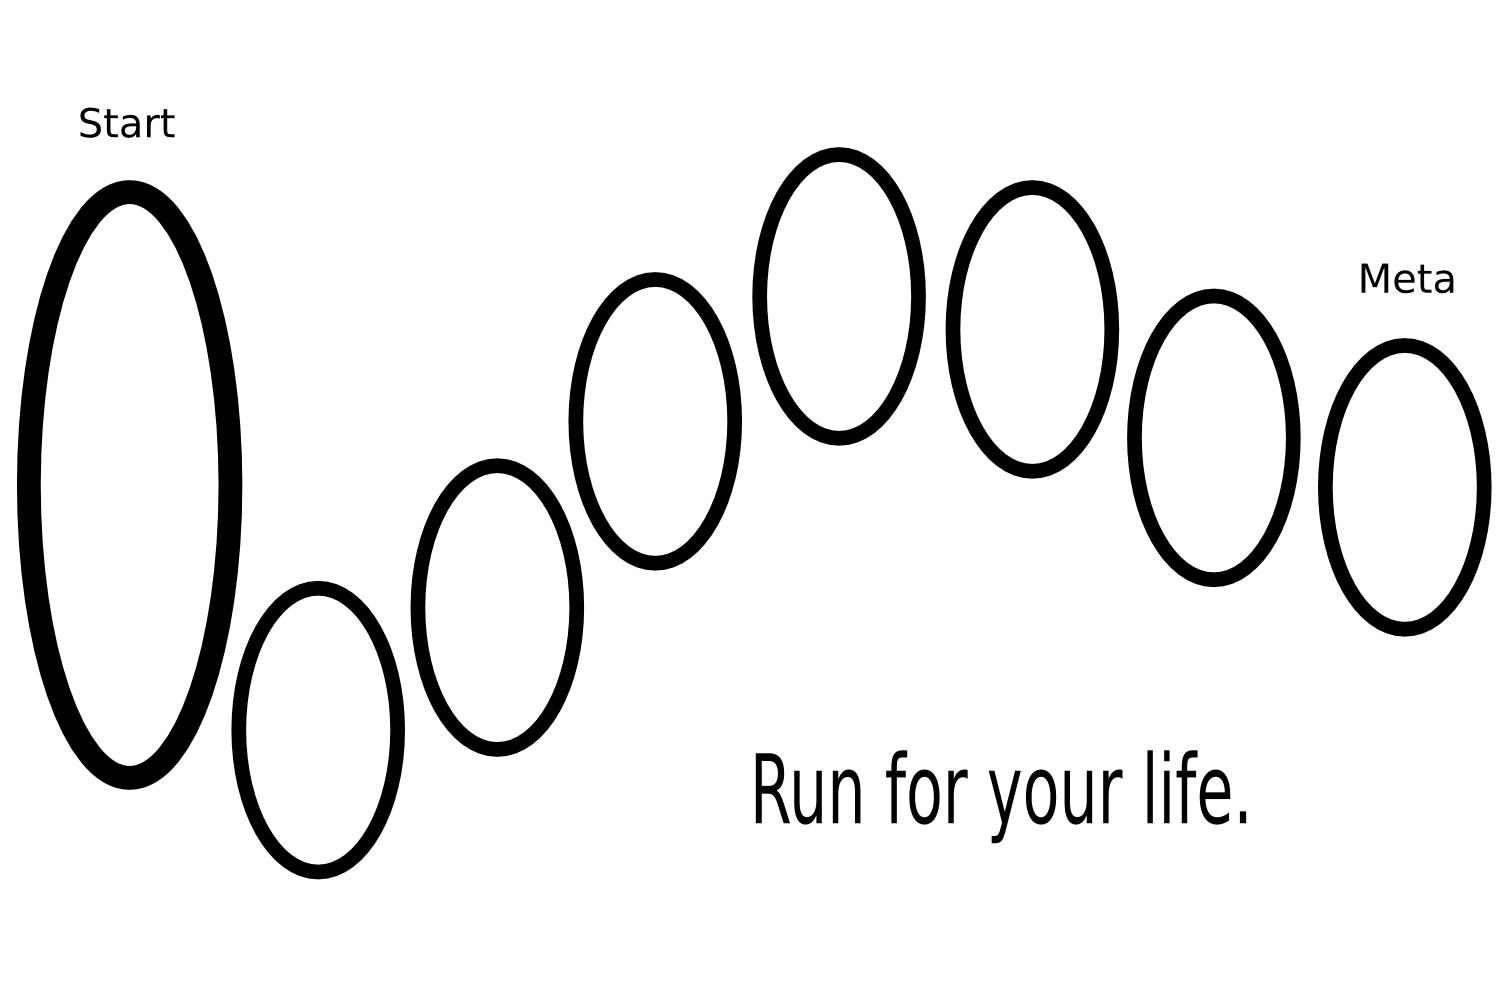
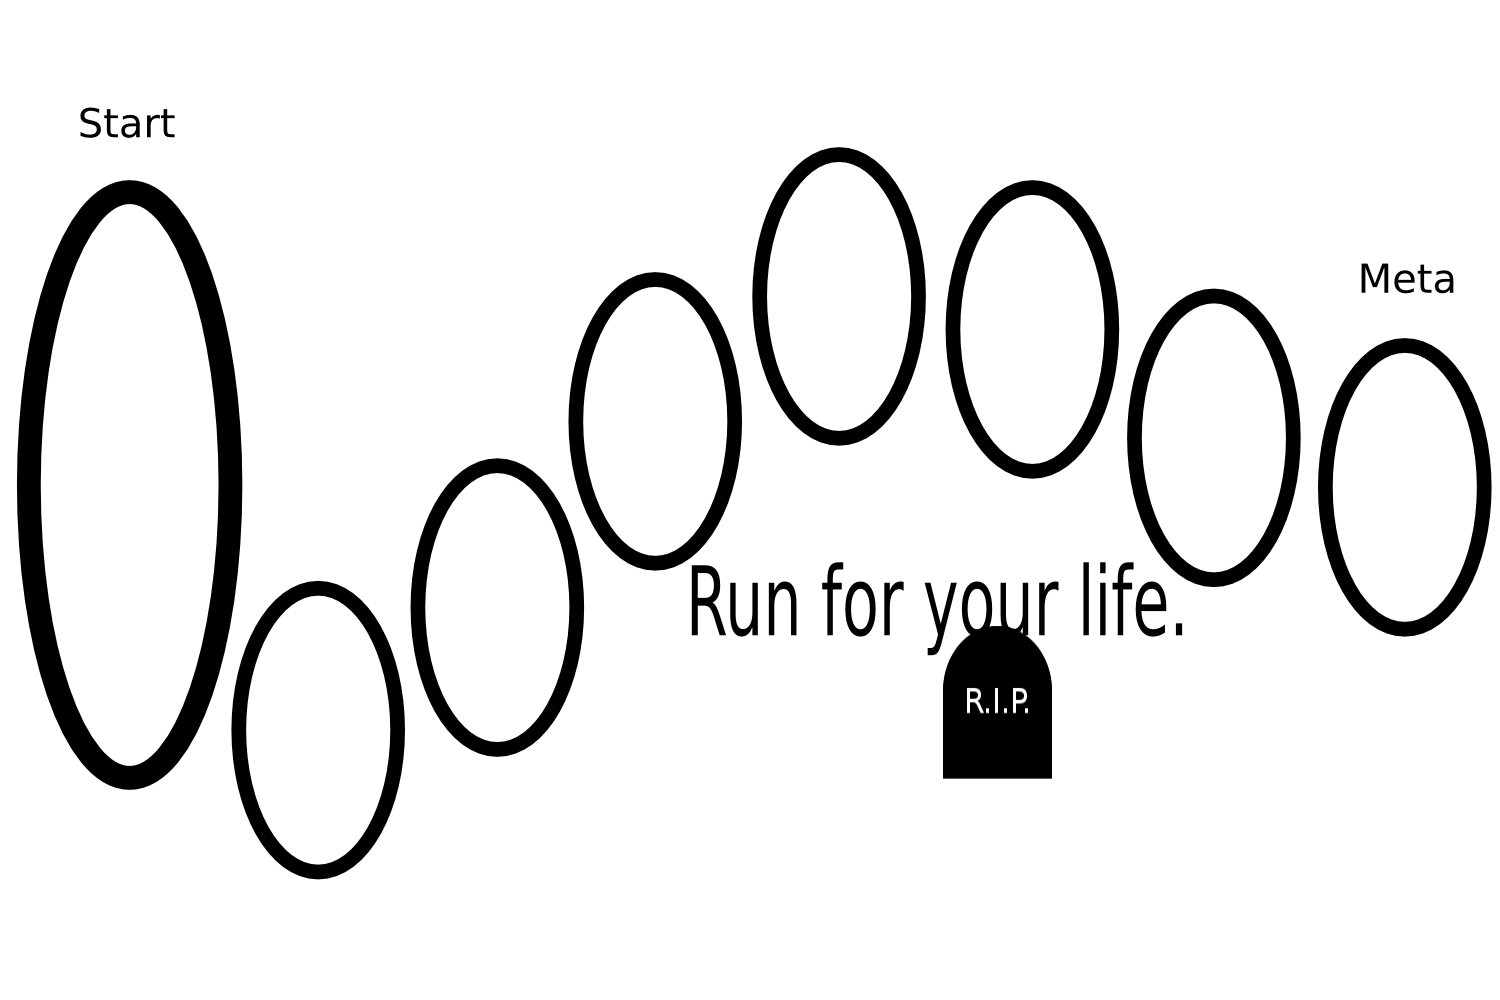
Grass player added

Changed region(s): [[0.46, 0.558, 0.828, 0.837]]

diff --git a/Common/src/Model/Cards/DoubleForwardCard.java b/Common/src/Model/Cards/DoubleForwardCard.java
@@ -43,14 +43,15 @@ public class DoubleForwardCard extends Card {
             for (Iterator<Turtle> it = field.turtles.iterator(); it.hasNext();)
             {
                 Turtle turtle = it.next();
-                assert turtle.color != Colors.asInteger(Colors.NULL) : "Turtle colors are shifted";
-                if (turtle.color == color) {
+                assert turtle.getColor() != Colors.asInteger(Colors.NULL) : "Turtle colors are shifted";
+                if (turtle.getColor() == color) {
                     Random random = new Random();
-                    if (field.getSuccessors().size() < 1)throw new IllegalArgumentException("<"+(String.valueOf(field.getSuccessors().size()))+">");
+                    if (field.getSuccessors().size() < 1) break outer;
                     BoardGraph.Field target = field.getSuccessors().get(random.nextInt(field.getSuccessors().size()));
-                    if (target.getSuccessors().size() < 1)throw new IllegalArgumentException("<"+(String.valueOf(target.getSuccessors().size()))+">");
+                    if (target.getSuccessors().size() < 1) break outer;
                     target = target.getSuccessors().get(random.nextInt(target.getSuccessors().size()));
                     do {
+                        turtle.move(target);
                         target.turtles.add(turtle);
                         it.remove();
                         if (it.hasNext())turtle = it.next();
@@ -65,7 +66,7 @@ public class DoubleForwardCard extends Card {
 
     @Override
     public CardInfo getCardInfo() {
-        return new CardInfo("DoubleForwardCard",this.id,this.color);
+        return new CardInfo("DoubleForwardCard",this.id,this.getColor());
     }
 
     @Override
@@ -75,6 +76,6 @@ public class DoubleForwardCard extends Card {
 
     @Override
     public String getDescription() {
-        return "Porusza żółwia "+Colors.asColor(this.color).toString()+" o dwa pola do przodu";
+        return "Porusza żółwia "+Colors.asColor(this.getColor()).toString()+" o dwa pola do przodu";
     }
 }

diff --git a/Common/src/Model/Cards/SingleBackwardCard.java b/Common/src/Model/Cards/SingleBackwardCard.java
@@ -43,12 +43,14 @@ public class SingleBackwardCard extends Card {
             for (Iterator<Turtle> it = field.turtles.iterator(); it.hasNext();)
             {
                 Turtle turtle = it.next();
-                assert turtle.color != Colors.asInteger(Colors.NULL) : "Turtle colors are shifted";
-                if (turtle.color == color) {
+                assert turtle.getColor() != Colors.asInteger(Colors.NULL) : "Turtle colors are shifted";
+                if (turtle.getColor() == color) {
                     Random random = new Random();
-                    if (field.getPredecessors().size() < 1)throw new IllegalArgumentException("<"+(String.valueOf(field.getPredecessors().size()))+">");
+                    if (field.getPredecessors().size() < 1) break outer;
                     BoardGraph.Field target = field.getPredecessors().get(random.nextInt(field.getPredecessors().size()));
+                    if (target.getType() == BoardGraph.FieldType.GRAVE && !turtle.isMoved()) break outer;
                     do {
+                        turtle.move(target);
                         target.turtles.add(turtle);
                         it.remove();
                         if (it.hasNext())turtle = it.next();
@@ -63,7 +65,7 @@ public class SingleBackwardCard extends Card {
 
     @Override
     public CardInfo getCardInfo() {
-        return new CardInfo("SingleBackwardCard",this.id,this.color);
+        return new CardInfo("SingleBackwardCard",this.id,this.getColor());
     }
 
     @Override
@@ -73,6 +75,6 @@ public class SingleBackwardCard extends Card {
 
     @Override
     public String getDescription() {
-        return "Porusza żolwia "+Colors.asColor(this.color).toString()+" o jedno pole do tyłu";
+        return "Porusza żolwia "+Colors.asColor(this.getColor()).toString()+" o jedno pole do tyłu";
     }
 }

diff --git a/Common/src/Model/Cards/SingleForwardCard.java b/Common/src/Model/Cards/SingleForwardCard.java
@@ -44,11 +44,12 @@ public class SingleForwardCard extends Card {
             {
                 Turtle turtle = it.next();
                 Random random = new Random();
-                assert turtle.color != Colors.asInteger(Colors.NULL) : "Turtle colors are shifted";
-                if (turtle.color == color) {
-                    if (field.getSuccessors().size() < 1)throw new IllegalArgumentException("<"+(String.valueOf(field.getSuccessors().size()))+">");
+                assert turtle.getColor() != Colors.asInteger(Colors.NULL) : "Turtle colors are shifted";
+                if (turtle.getColor() == color) {
+                    if (field.getSuccessors().size() < 1) break outer;
                     BoardGraph.Field target = field.getSuccessors().get(random.nextInt(field.getSuccessors().size()));
                     do {
+                        turtle.move(target);
                         target.turtles.add(turtle);
                         it.remove();
                         if (it.hasNext())turtle = it.next();
@@ -63,7 +64,7 @@ public class SingleForwardCard extends Card {
 
     @Override
     public CardInfo getCardInfo() {
-        return new CardInfo("SingleForwardCard",this.id,this.color);
+        return new CardInfo("SingleForwardCard",this.id,this.getColor());
     }
 
     @Override
@@ -73,6 +74,6 @@ public class SingleForwardCard extends Card {
 
     @Override
     public String getDescription() {
-        return "Porusza żolwia "+Colors.asColor(this.color).toString()+" o jedno pole do przodu";
+        return "Porusza żolwia "+Colors.asColor(this.getColor()).toString()+" o jedno pole do przodu";
     }
 }

diff --git a/Model/src/Model/Board/SimpleBoard.java b/Model/src/Model/Board/SimpleBoard.java
@@ -9,10 +9,12 @@ import java.util.logging.Level;
 
 public class SimpleBoard extends Board {
     private static final long serialVersionUID = -3932283805405624796L;
-    private final BoardGraph.Field End;
+    private final BoardGraph.Field end;
+    private final BoardGraph.Field grave;
 
     public SimpleBoard()
     {
+        grave = new BoardGraph.Field(BoardGraph.FieldType.GRAVE);
 
         BoardGraph.Field f = new BoardGraph.Field();
         graph.starts = new ArrayList<>();
@@ -28,6 +30,8 @@ public class SimpleBoard extends Board {
         for(BoardGraph.Field a : graph.starts) {
             a.successors.add(f);
             f.predecessors.add(a);
+
+            a.predecessors.add(grave);
         }
 
         for (int i = 0; i < 5; i++) {
@@ -37,8 +41,10 @@ public class SimpleBoard extends Board {
             f=s;
         }
 
-        End = new BoardGraph.Field(BoardGraph.FieldType.FINAL);
-        f.successors.add(End);
+        end = new BoardGraph.Field(BoardGraph.FieldType.FINAL);
+        f.successors.add(end);
+
+        end.successors.add(grave);
 
         for (BoardGraph.Field field : graph) {
             Utility.Debug.log(Level.INFO, "[BOARD CONSTRUCTOR DEBUG]graph>>" + graph.toString());
@@ -47,6 +53,6 @@ public class SimpleBoard extends Board {
 
     @Override
     BoardGraph.Field getEndField() {
-        return End;
+        return end;
     }
 }

diff --git a/Client/src/Views/BoardBootstrap.java b/Client/src/Views/BoardBootstrap.java
@@ -5,9 +5,9 @@ public class BoardBootstrap {
     public static Board createSampleBoard() {
         Board temp = new Board();
 
-        //the first position is not used because the GUI designer counts from 0
-        //temp.positions.add(new Point(42, 42));
-
+        /**
+         * start positions
+         */
         temp.positions.add(new Point(60, 120));
         temp.positions.add(new Point(45, 170));
         temp.positions.add(new Point(60, 220));
@@ -15,8 +15,9 @@ public class BoardBootstrap {
         temp.positions.add(new Point(60, 320));
         temp.maxTurtles = temp.positions.size();
 
-        //the first position is not used because the GUI designer counts from 0
-
+        /**
+         * other positions
+         */
         temp.positions.add(new Point(170, 340));
         temp.positions.add(new Point(280, 290));
         temp.positions.add(new Point(380, 190));
@@ -24,6 +25,12 @@ public class BoardBootstrap {
         temp.positions.add(new Point(610, 150));
         temp.positions.add(new Point(720, 200));
         temp.positions.add(new Point(840, 220));
+
+        /**
+         * grave position
+         */
+        temp.positions.add(new Point(600, 400));
+
         temp.size = temp.positions.size();
 
         temp.name = "sampleBoard";

diff --git a/Common/src/Model/Turtles/Turtle.java b/Common/src/Model/Turtles/Turtle.java
@@ -8,12 +8,13 @@ import java.io.Serializable;
 public class Turtle implements Serializable {
     private static final long serialVersionUID = 2763735491352166723L;
 
-    public final int color;
+    private final int color;
+    private boolean moved = false;
     // Player ref goes here
     /*
         Backward Board reference
      */
-    BoardGraph.Field position;
+    private BoardGraph.Field position;
 
     public Turtle(int color) {
         this.color = color;
@@ -21,6 +22,19 @@ public class Turtle implements Serializable {
 
     public int getColor() {
         return color;
+    }
+
+    public void move(BoardGraph.Field position) {
+        moved = true;
+        this.position = position;
+    }
+
+    public BoardGraph.Field getPosition() {
+        return position;
+    }
+
+    public boolean isMoved() {
+        return moved;
     }
 
     @Override

diff --git a/Client/src/Views/Standard/Game/StandardGameView.java b/Client/src/Views/Standard/Game/StandardGameView.java
@@ -189,11 +189,15 @@ public class StandardGameView {
             Platform.runLater(new Runnable() {
                 @Override
                 public void run() {
-                    if (winner.equals(gameController.getTurtleColor()))
+                    if (winner.equals(gameController.getTurtleColor())) {
                         winnerLabel.setText("YOU");
-                    else
+                    } else if (winner == Colors.NULL) {
+                        winnerLabel.setText("Grass");
+                    } else {
                         winnerLabel.setText(winner.toString());
+                    }
                     winnerPane.setVisible(true);
+                    winnerPane.toFront();
                 }
             });
         }

diff --git a/Common/src/Model/Board/BoardGraph.java b/Common/src/Model/Board/BoardGraph.java
@@ -59,9 +59,9 @@ public class BoardGraph implements Iterable<BoardGraph.Field>, Serializable {
         };
     }
 
-    enum FieldType
+    public enum FieldType
     {
-        FINAL, NORMAL
+        FINAL, NORMAL, GRAVE
     }
 
     public static class Field implements Serializable {
@@ -109,6 +109,10 @@ public class BoardGraph implements Iterable<BoardGraph.Field>, Serializable {
             }
             result.append("]");
             return result.toString();
+        }
+
+        public FieldType getType() {
+            return type;
         }
     }
 

diff --git a/Common/src/Model/Board/Board.java b/Common/src/Model/Board/Board.java
@@ -24,7 +24,12 @@ public abstract class Board implements Serializable {
         if (endField.turtles.size() > 0) {
             return Colors.asColor(endField.turtles.get(endField.turtles.size() - 1).getColor());
         }
-        return null;
+        for (BoardGraph.Field field : graph) {
+            if (field.getType() != BoardGraph.FieldType.GRAVE && field.getTurtles().size() > 0) {
+                return null;
+            }
+        }
+        return Colors.NULL;
     }
 
     abstract BoardGraph.Field getEndField();
